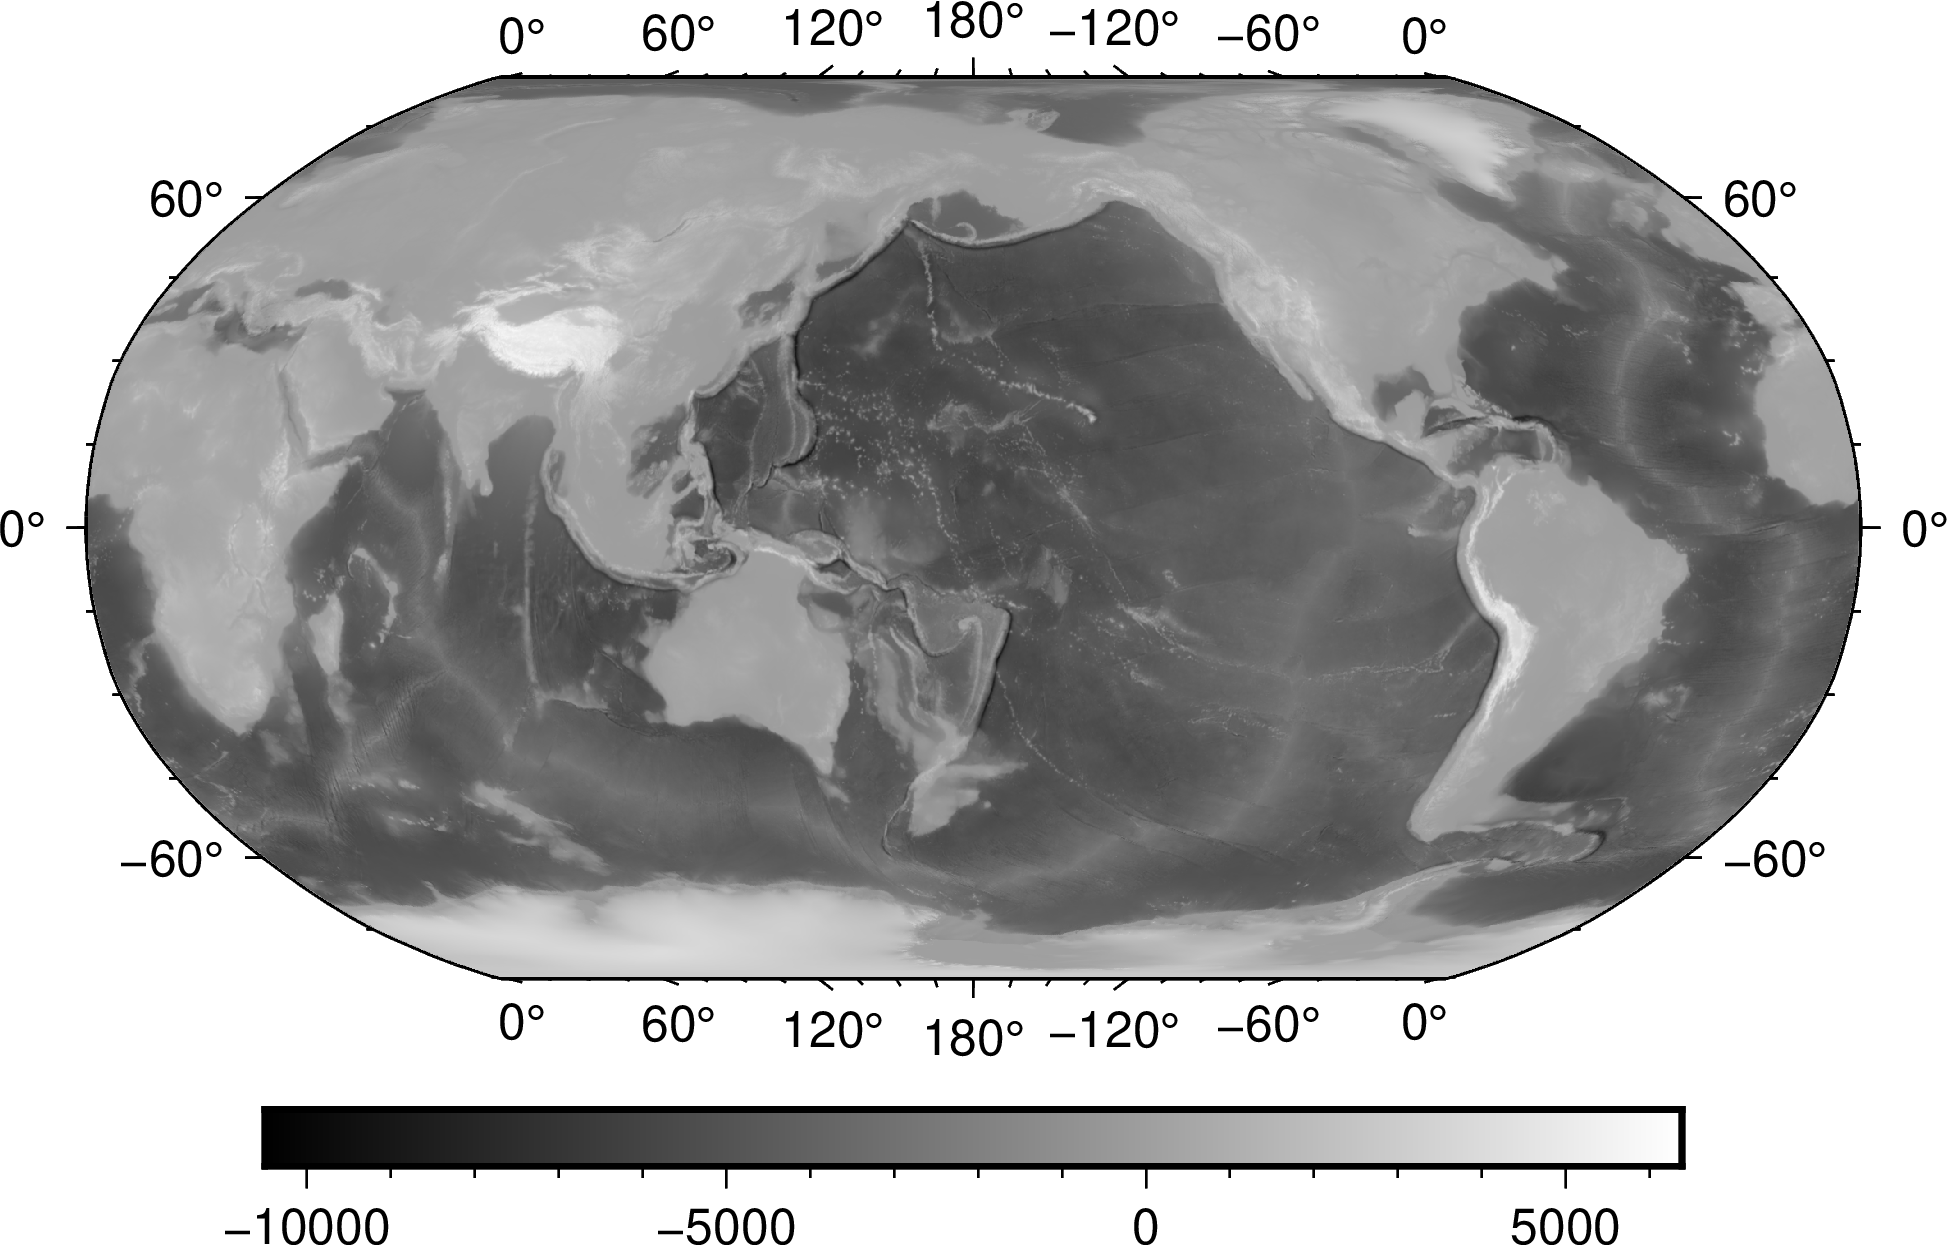
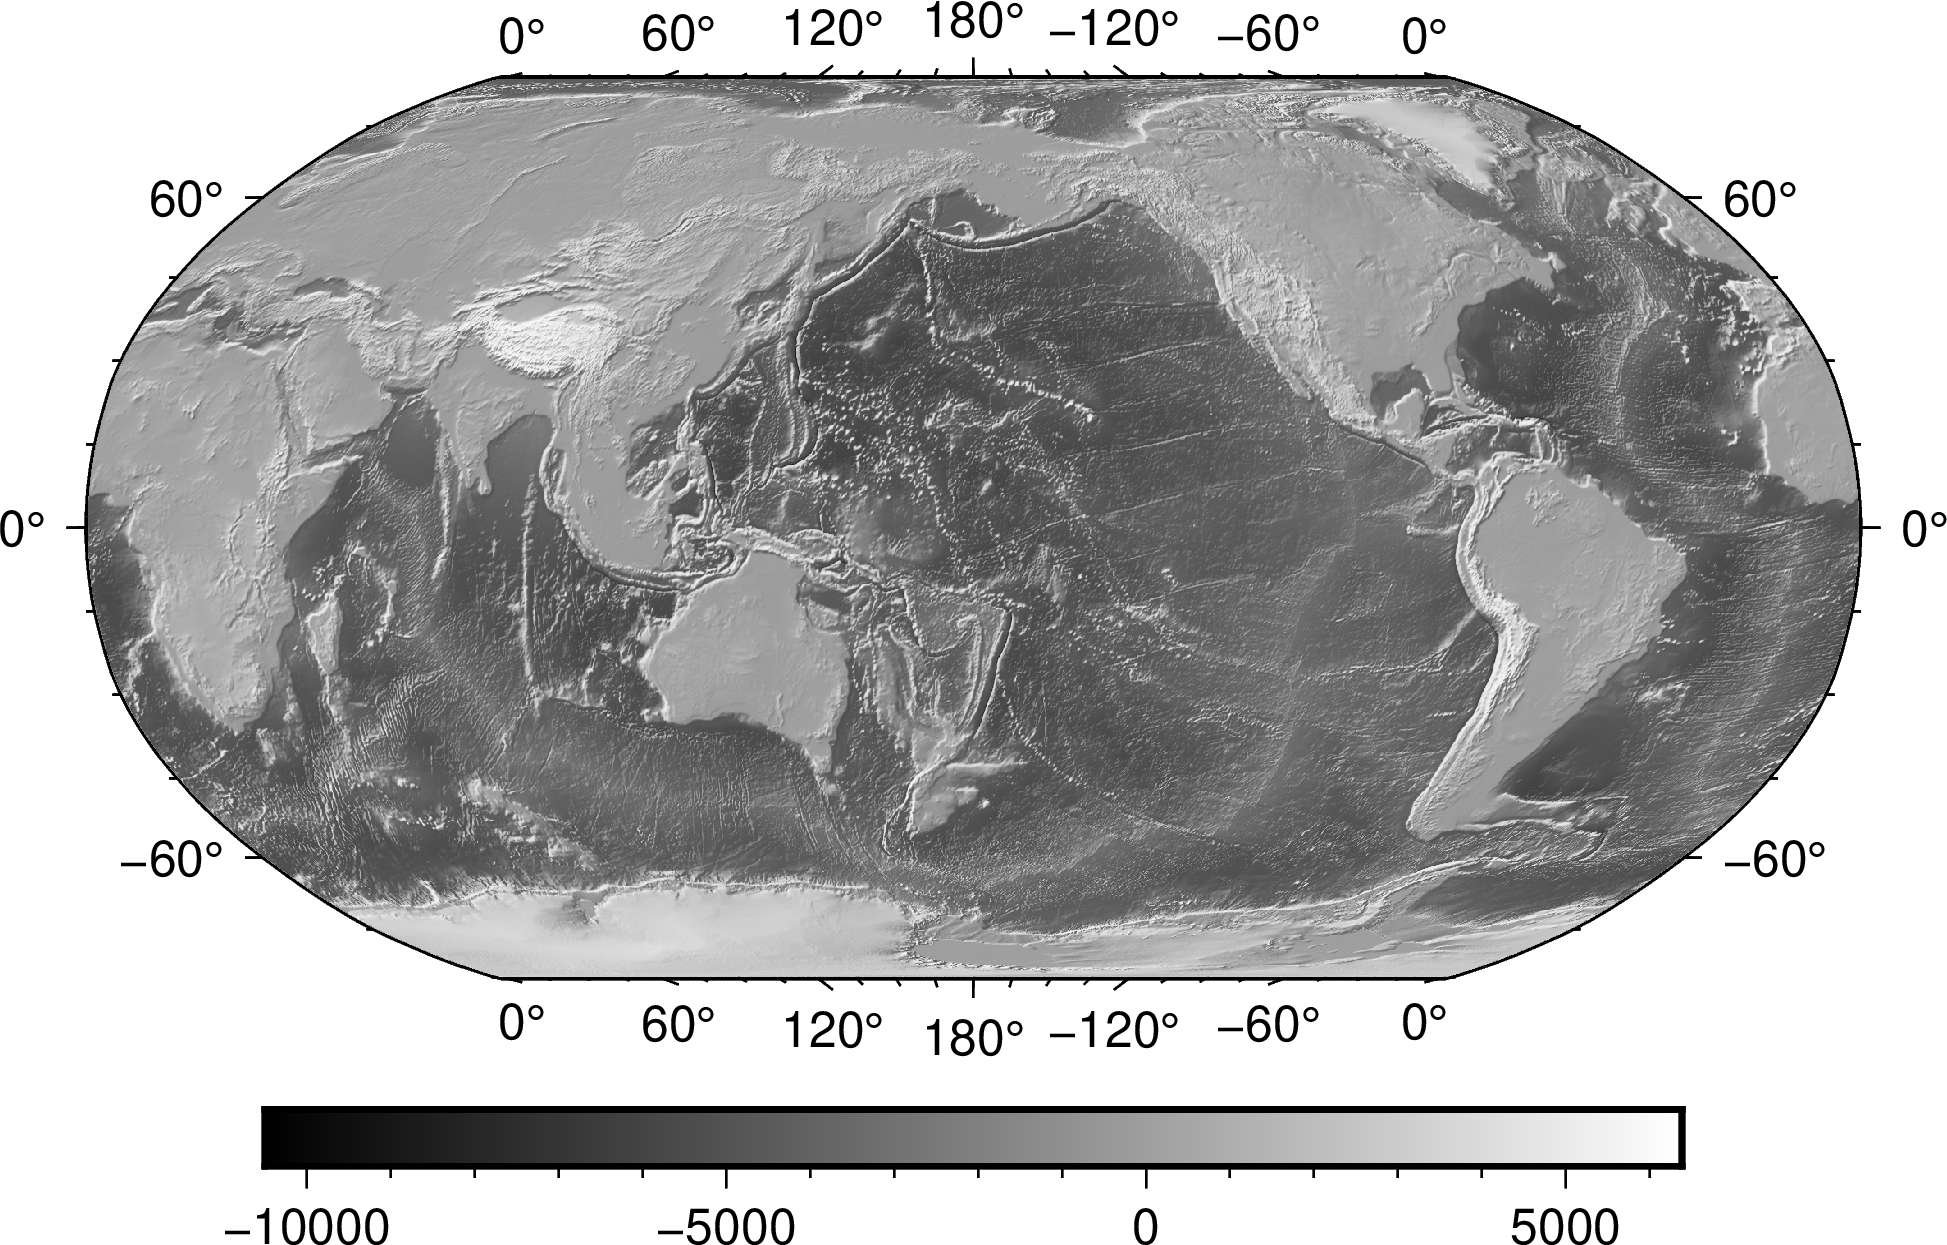
Update the shaded image

Changed region(s): [[0.0616, 0.061, 0.9553, 0.7936], [0.0616, 0.3968, 0.0924, 0.4273]]

diff --git a/grids/README.md b/grids/README.md
@@ -205,7 +205,7 @@ on the gradient of the data values). You can also apply custom shading
 (including shading one data type with another) using `grdgradient`.
 See the script [`images-shading.sh`](images-shading.sh). The output should look like:
 
-<img src="images-shading.png" width="50%">
+<img src="images-shading.png" width="60%">
 
 Further reading: https://docs.generic-mapping-tools.org/latest/grdgradient.html
 
